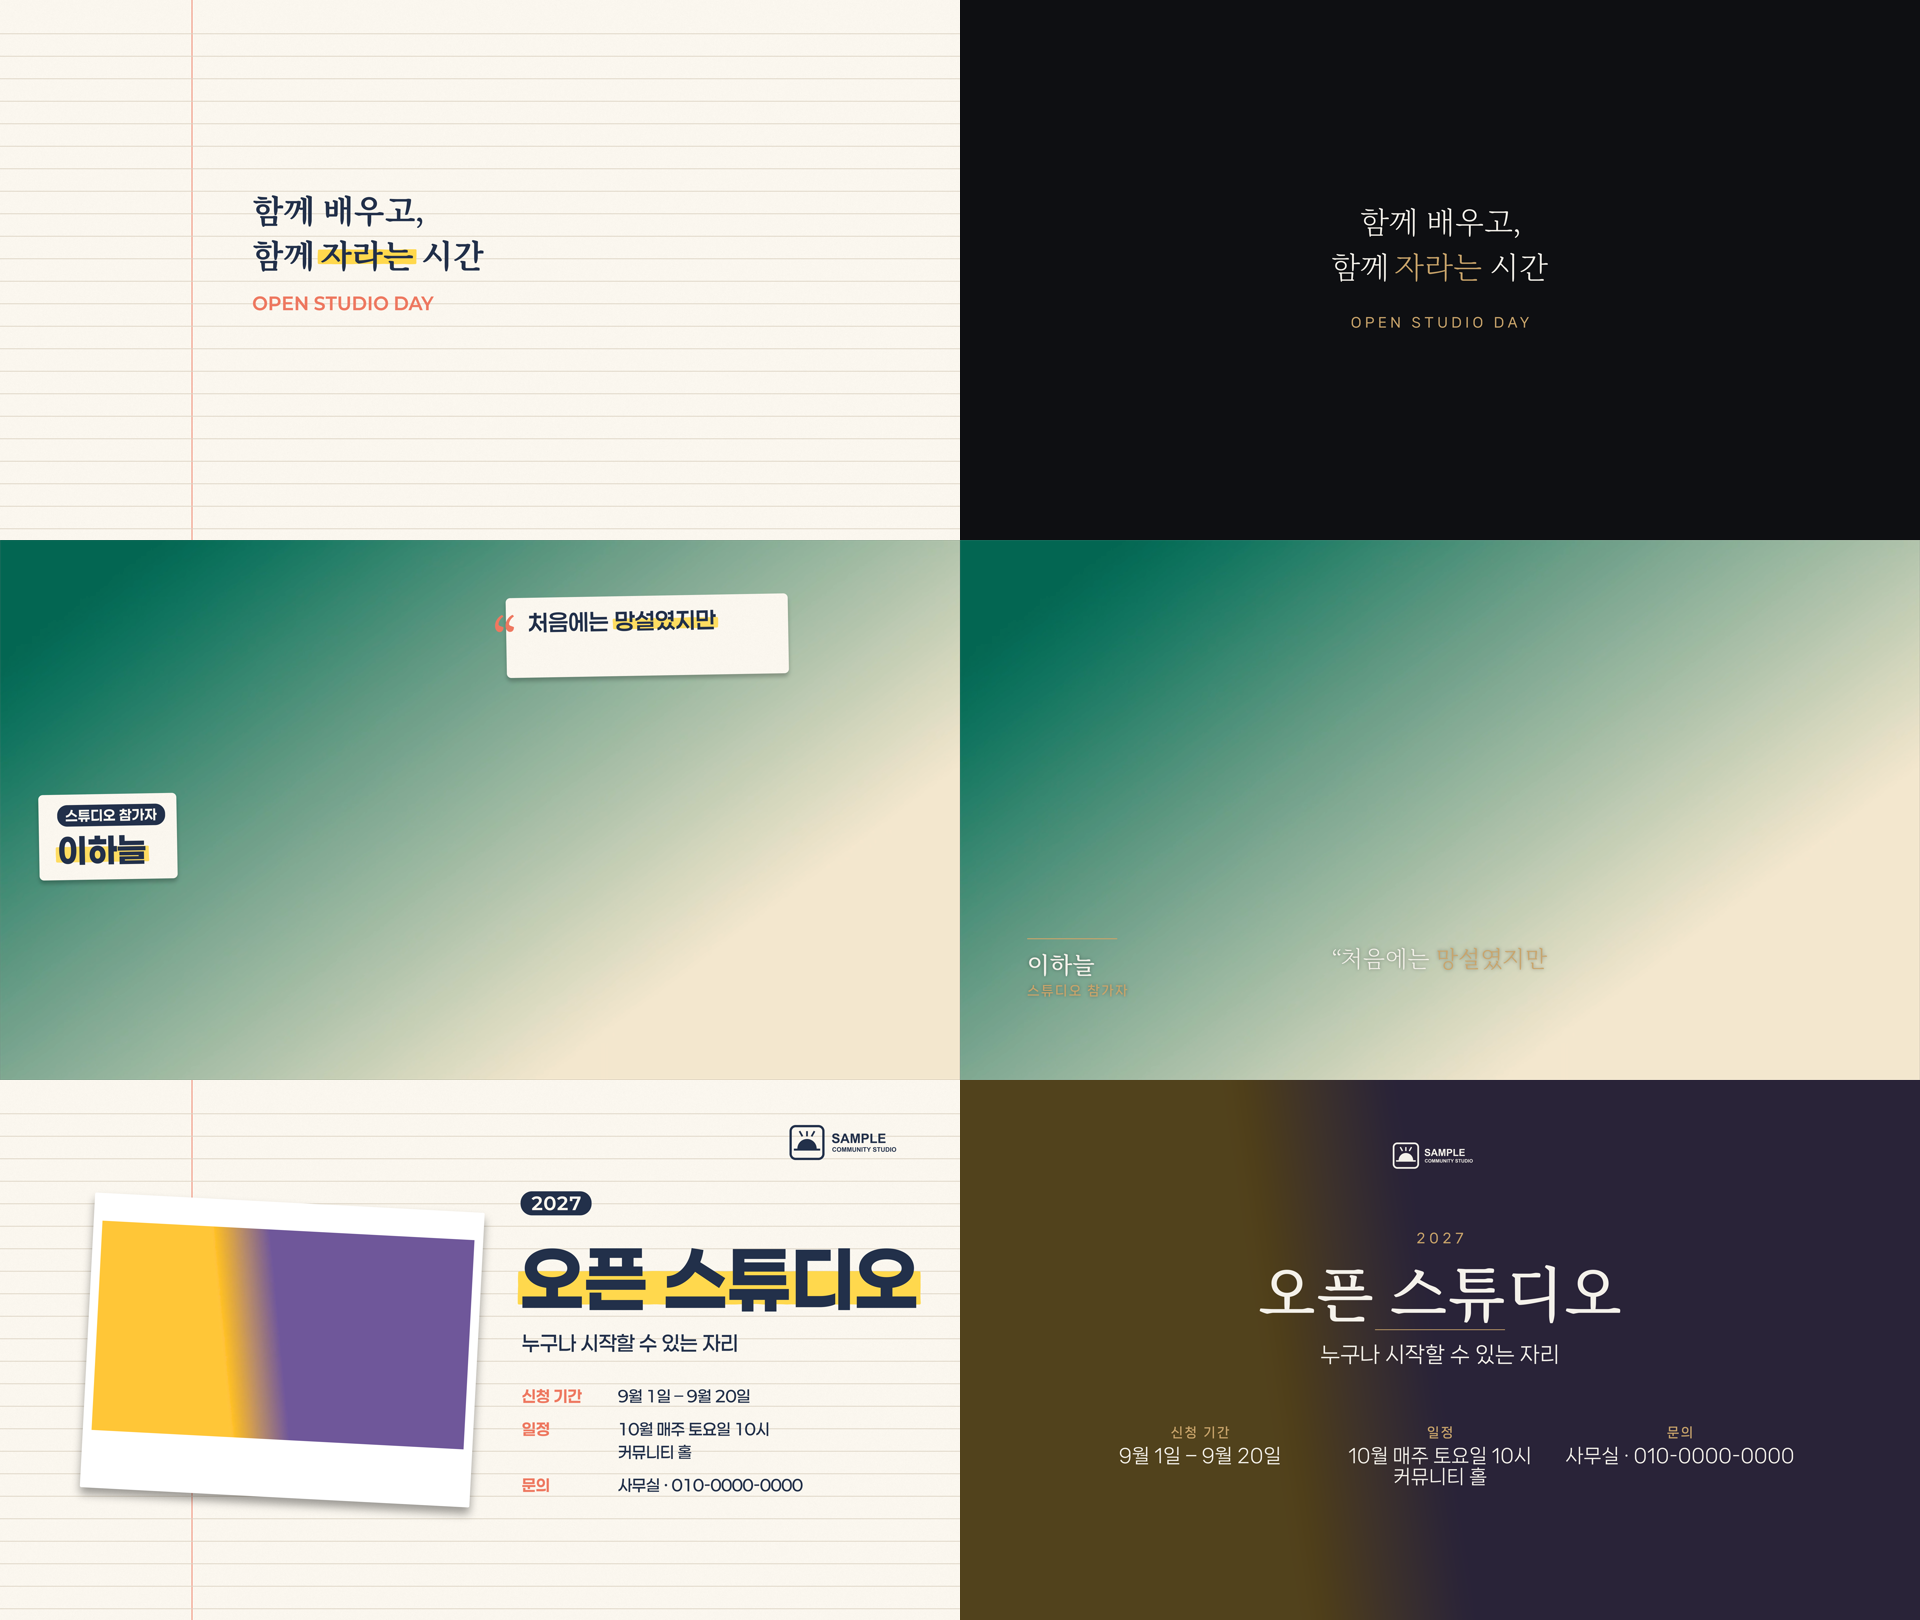
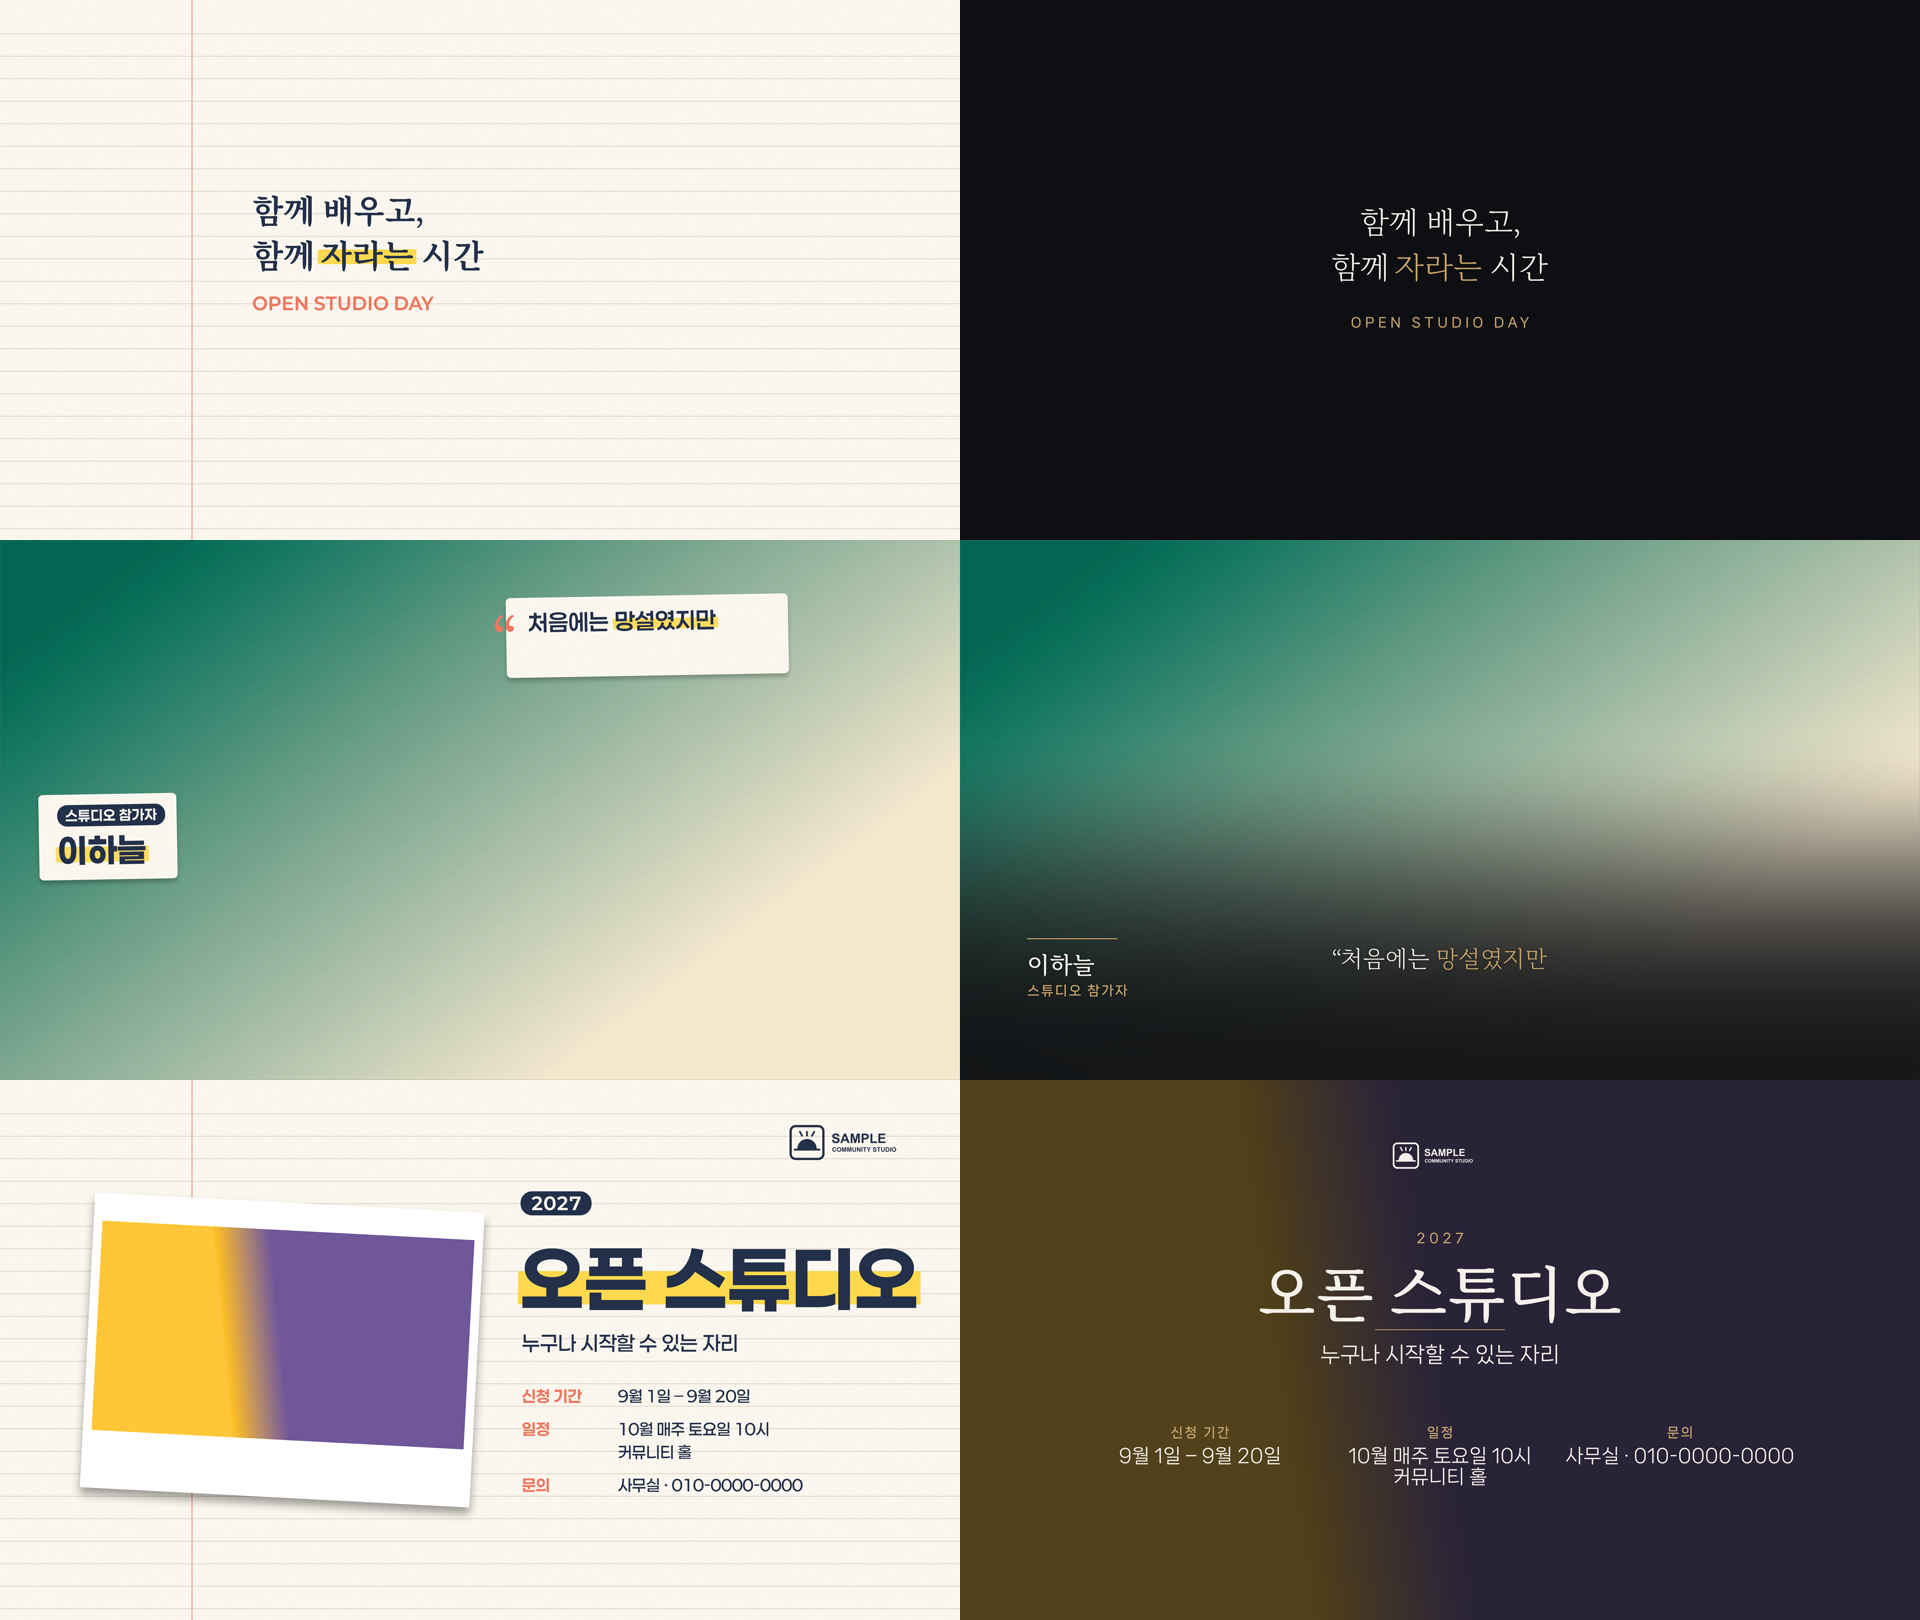
fix(cinematic-minimal): soft scrim keeps captions readable (#12)
## Summary
In `cinematic-minimal`, near-white `ink` and gold `accent` type nearly
disappeared on light footage: gold highlights on orange, the name tag
and quote on sage and cream. Captions, quotes and the lower third now
fade a soft dark scrim in behind the type.

- **Three alpha-gradient PNGs** ship beside the design: `scrim-bottom`,
`scrim-top` and `scrim-center`. They're 1920×1080 in the design's
`shade` colour and scaled to cover the frame. The caption's `place`
picks which one is used.
- **The lower-third scrim fades in on its own** (0.5 s), because that
group only fades out and the scrim would otherwise pop on.
- **Scrims sit beneath every graphic layer** (new `under_graphics`
option, backed by `Context.graphics_from`). Without it, the quote's
scrim covered the lower third that shares its shot and dimmed the name.
- **`_scrim` moves from `editorial.py` to `layout.py`** as `scrim()`.
Editorial behaviour is unchanged; ordering is opt-in, since editorial
titles keep their own photo under their scrim.
- **README:** the design comparison image is regenerated from the new
render. **Docs:** a note in `docs/components.md`.

## Verified in After Effects 2026
Built the demo with `--design cinematic-minimal` in a scratch project:
65 layers, no expression errors, no missing fonts. Compared stills at
10.5 s, 16.5 s and 25 s with the previous render: every caption,
highlight, name and role line is now legible. The title and end card are
unchanged.
[…]

Changed region(s): [[0.5, 0.463, 1.0, 0.679]]

diff --git a/engine/aestudio/components/editorial.py b/engine/aestudio/components/editorial.py
@@ -10,7 +10,7 @@ a design using these treatments wants a pale `ink`, not a paper-dark one.
 """
 from ..util import r3
 from . import register
-from .layout import LayoutError, fade_ref, parse_line, schedule_times, span, text_block
+from .layout import LayoutError, fade_ref, parse_line, schedule_times, scrim, span, text_block
 
 # alpha-gradient assets that ship beside the design.json
 SCRIM_TITLE = "scrim-title.png"
@@ -19,25 +19,6 @@ SCRIM_CAPTION = "scrim-caption.png"
 # How long a layout's bed and panels take to rise. They share one curve so the
 # bed can never be more opaque than the panels sitting on it.
 RAMP_IN = 0.35
-
-
-def _scrim(ctx, *, id, parent, asset, strength, opacity=None, **sp):
-    """A bottom-up darkening gradient. Keeps the photo readable under the type.
-
-    `sp` is a span() dict, so it carries "in"/"out" keys straight through to the op.
-
-    This is a PNG carrying a real alpha channel, not an ADBE Ramp effect: Gradient
-    Ramp paints RGB across an opaque solid and ignores the alpha in its colours, so
-    it veils the whole frame instead of fading in toward the bottom. Strength rides
-    on the layer's own opacity - there is no "ADBE Opacity" effect to apply.
-    """
-    ops, W, H = ctx.ops, ctx.width, ctx.height
-    op_expr = f"({opacity})*{strength}/100" if opacity else str(r3(strength))
-    # cover, never fit-to-width: the gradient must reach the top and bottom of the
-    # frame in any aspect, and it is uniform horizontally so overflow costs nothing
-    ops.add("image", id=id, parent=parent, file=str(ctx.design.path.parent / asset),
-            cover=True, position=[r3(W / 2), r3(H / 2)],
-            expr={"opacity": op_expr}, **sp)
 
 
 def _photo_grade(ctx, photo):
@@ -83,7 +64,7 @@ def title_editorial(ctx, g, opts):
                 src_in=photo.get("src_in", 0), zoom=photo.get("zoom", 1.04),
                 position=[r3(W / 2), r3(H / 2)],
                 lumetri=_photo_grade(ctx, photo), expr={"opacity": fade})
-    _scrim(ctx, id=f"{tid}_SCRIM", parent=tid, asset=SCRIM_TITLE, strength=92,
+    scrim(ctx, id=f"{tid}_SCRIM", parent=tid, asset=SCRIM_TITLE, strength=92,
            opacity=fade, **sp)
 
     x = r3(px(150))
@@ -141,7 +122,7 @@ def caption_editorial(ctx, g, opts):
             fade=f"100*so((time-{t_in})/0.5)*(1-so((time-{r3(t_out - 0.5)})/0.5))")
     fade = fade_ref(cid)
     sp = span(t_in, r3(t_out + 0.1))
-    _scrim(ctx, id=f"{cid}_SCRIM", parent=cid, asset=SCRIM_CAPTION, strength=96,
+    scrim(ctx, id=f"{cid}_SCRIM", parent=cid, asset=SCRIM_CAPTION, strength=96,
            opacity=fade, **sp)
 
     x = r3(px(150))
@@ -423,7 +404,7 @@ def opening_editorial(ctx, g, opts):
     ops.add("rect", id=f"{oid}_VEIL", parent=oid, color=d.color("shade"),
             size=[r3(W + px(20)), r3(H + px(20))], center=[r3(W / 2), r3(H / 2)],
             expr={"opacity": f"(68-44*eio((time-{r3(t_in + 0.5)})/1.9))*{fade}/100"}, **sp)
-    _scrim(ctx, id=f"{oid}_SCRIM", parent=oid, asset=SCRIM_TITLE, strength=64, opacity=fade, **sp)
+    scrim(ctx, id=f"{oid}_SCRIM", parent=oid, asset=SCRIM_TITLE, strength=64, opacity=fade, **sp)
 
     # ---- route strip: ICN ---o--- WLG -------------------------------------
     y_r = Y(0.104)
@@ -550,7 +531,7 @@ def opening_aperture(ctx, g, opts):
     ops.add("rect", id=f"{oid}_VEIL", parent=oid, color=d.color("shade"),
             size=[r3(W + px(20)), r3(H + px(20))], center=[r3(W / 2), r3(H / 2)],
             expr={"opacity": f"(52-30*eio((time-{r3(t_in + 0.8)})/1.6))*{fade}/100"}, **sp)
-    _scrim(ctx, id=f"{oid}_SCRIM", parent=oid, asset=SCRIM_TITLE, strength=70, opacity=fade, **sp)
+    scrim(ctx, id=f"{oid}_SCRIM", parent=oid, asset=SCRIM_TITLE, strength=70, opacity=fade, **sp)
 
     # the aperture: half-height grows from a slit to the whole frame
     o0, od = r3(t_in + 0.12), 1.15
@@ -620,7 +601,7 @@ def opening_impact(ctx, g, opts):
     ops.add("rect", id=f"{oid}_VEIL", parent=oid, color=d.color("shade"),
             size=[r3(W + px(20)), r3(H + px(20))], center=[r3(W / 2), r3(H / 2)],
             expr={"opacity": f"(60-36*eio((time-{r3(t_in + 0.4)})/1.5))*{fade}/100"}, **sp)
-    _scrim(ctx, id=f"{oid}_SCRIM", parent=oid, asset=SCRIM_TITLE, strength=76, opacity=fade, **sp)
+    scrim(ctx, id=f"{oid}_SCRIM", parent=oid, asset=SCRIM_TITLE, strength=76, opacity=fade, **sp)
 
     mult = float(g.get("size", 1.16))
     size = ctx.size("headline", mult)

diff --git a/engine/tests/test_cinematic.py b/engine/tests/test_cinematic.py
@@ -1,3 +1,4 @@
+import struct
 import unittest
 
 from aestudio.components import REGISTRY
@@ -47,6 +48,42 @@ class CinematicTest(unittest.TestCase):
         self.assertIn("eio((time-5.1)/0.6)", it["LOWER_THIRD_01_RULE"]["rect_expr"]["size"])
         self.assertEqual(it["LOWER_THIRD_01_NAME"]["reveal"]["by"], "chars")
         self.assertEqual(it["LOWER_THIRD_01_ROLE"]["tracking"], 120)
+
+    def test_caption_sits_on_a_scrim_under_its_text(self):
+        ctx, it = run({"type": "caption", "voice": "N1", "lines": LINES}, "line-fade")
+        scrim = it["CAPTION_01_SCRIM"]
+        self.assertTrue(scrim["file"].endswith("scrim-bottom.png"))
+        self.assertIn('layer("CAPTION_01")', scrim["expr"]["opacity"])
+        order = [o.get("id") for o in ctx.ops.items]
+        first_text = next(o["id"] for o in ctx.ops.items if o["op"] == "text")
+        self.assertLess(order.index("CAPTION_01_SCRIM"), order.index(first_text))
+
+    def test_scrim_follows_the_caption_placement(self):
+        for place, asset in (("top-left", "scrim-top.png"), ("center", "scrim-center.png"), ("bottom-right", "scrim-bottom.png")):
+            _, it = run({"type": "quote", "voice": "N1", "lines": LINES, "place": place}, "line-fade")
+            self.assertTrue(it["QUOTE_01_SCRIM"]["file"].endswith(asset), place)
+
+    def test_lower_third_scrim_fades_in_with_the_name(self):
+        _, it = run({"type": "lower-third", "at": 5, "name": "이하늘", "role": "스튜디오 참가자"}, "rule-wipe")
+        scrim = it["LOWER_THIRD_01_SCRIM"]
+        self.assertTrue(scrim["file"].endswith("scrim-bottom.png"))
+        self.assertIn("so((time-5.0)/0.5)", scrim["expr"]["opacity"])
+
+    def test_a_later_scrim_sits_under_earlier_graphics_text(self):
+        ctx = make_ctx("cinematic-minimal", voices={"N1": voice("N1", 10.0, WORDS)})
+        REGISTRY[("lower-third", "rule-wipe")](ctx, {"type": "lower-third", "at": 9, "name": "이하늘", "role": "참가자"}, {})
+        REGISTRY[("quote", "line-fade")](ctx, {"type": "quote", "voice": "N1", "lines": LINES}, {})
+        validate_ops(ctx.ops.items)
+        order = {o["layer"]: o["below"] for o in ctx.ops.items if o["op"] == "order"}
+        self.assertEqual(order["QUOTE_01_SCRIM"], ["LOWER_THIRD_01"])
+        self.assertEqual(order["LOWER_THIRD_01_SCRIM"], ["LOWER_THIRD_01"])
+
+    def test_scrim_assets_ship_as_16_9_pngs_with_alpha(self):
+        folder = load_design("cinematic-minimal").path.parent
+        for name in ("scrim-bottom.png", "scrim-top.png", "scrim-center.png"):
+            head = (folder / name).read_bytes()[:26]
+            width, height, _, colour_type = struct.unpack(">IIBB", head[16:26])
+            self.assertEqual((width * 9, colour_type), (height * 16, 6), name)
 
     def test_title_black_frame(self):
         _, it = run({"type": "title-page", "in": 0, "out": 6, "lines": [["함께 배우고,"]], "ref": "OPEN DAY"}, "black-frame")

diff --git a/engine/aestudio/components/cinematic.py b/engine/aestudio/components/cinematic.py
@@ -1,8 +1,10 @@
-"""Cinematic Minimal treatments: centred lines that fade up, accent-colour emphasis, rule-wipe lower third,
+"""Cinematic Minimal treatments: centred lines that fade up over a soft scrim, accent-colour emphasis, rule-wipe lower third,
 black-frame title and a centred end card over blurred footage."""
 from ..util import r3
 from . import register
-from .layout import fade_ref, parse_line, place_block, schedule_times, segment_times, span, text_block
+from .layout import fade_ref, parse_line, place_block, schedule_times, scrim, segment_times, span, text_block, vertical
+
+SCRIMS = {"top": "scrim-top.png", "center": "scrim-center.png", "bottom": "scrim-bottom.png"}
 
 
 def _shadow(ctx, layer_id):
@@ -24,10 +26,13 @@ def caption_line_fade(ctx, g, opts):
         raw[-1] = raw[-1] + ["”"]
     lines = [parse_line(line, ctx.size(base, 0.3)) for line in raw]
     gap = r3(ctx.size(base) * 1.45)
-    x, y0, align = place_block(g.get("place", "lower-center"), len(lines), gap, ctx.width, ctx.height)
+    place = g.get("place", "lower-center")
+    x, y0, align = place_block(place, len(lines), gap, ctx.width, ctx.height)
     cid = ops.uid("QUOTE" if quote else "CAPTION")
     ops.add("group", id=cid, fade=f"100*so((time-{t_in})/0.5)*(1-so((time-{r3(t_out - 0.5)})/0.5))",
             expr={"position": f"value+[0,{ctx.px(24)}*(1-so((time-{t_in})/0.8))]"})
+    scrim(ctx, id=f"{cid}_SCRIM", parent=cid, asset=SCRIMS[vertical(place)], strength=100,
+          opacity=fade_ref(cid), under_graphics=True, **span(t_in, r3(t_out + 0.1)))
 
     def style(i, seg):
         return {"font": d.font("emphasis" if seg.hl and not quote else base), "size": ctx.size(base),
@@ -51,6 +56,8 @@ def lower_third_rule_wipe(ctx, g, opts):
     sp = span(t_in, t_out + 0.05)
     ops.add("group", id=lid, fade=f"100*(1-so((time-{r3(t_out - 0.6)})/0.6))")
     fade = fade_ref(lid)
+    scrim(ctx, id=f"{lid}_SCRIM", parent=lid, asset=SCRIMS["bottom"], strength=100,
+          opacity=f"{fade}*so((time-{t_in})/0.5)", under_graphics=True, **sp)
     name_size = ctx.size("headline", 0.62)
     rule_w, rule_h, rule_y = px(360), px(4), r3(y - name_size - px(40))
     k = f"var k=eio((time-{r3(t_in + 0.1)})/0.6);"

diff --git a/engine/aestudio/components/layout.py b/engine/aestudio/components/layout.py
@@ -88,15 +88,39 @@ def schedule_times(lines, start, step, line_pause):
     return out
 
 
+def vertical(place) -> str:
+    """"top", "center" or "bottom": which band of the frame a place sits in."""
+    return "center" if place == "center" else ("top" if place.startswith("top") else "bottom")
+
+
 def place_block(place, n_lines, gap, width, height):
     if place not in PLACES:
         raise LayoutError(f"unknown place '{place}' (expected one of {', '.join(PLACES)})")
     extent = (n_lines - 1) * gap
     horiz = "center" if place.endswith("center") else place.split("-")[1]
-    vert = "center" if place == "center" else ("top" if place.startswith("top") else "bottom")
+    vert = vertical(place)
     x = {"left": 0.09, "right": 0.55, "center": 0.5}[horiz] * width
     y_first = {"top": 0.17 * height, "bottom": 0.85 * height - extent, "center": 0.5 * height - extent / 2}[vert]
     return round(x, 2), round(y_first, 2), ("center" if horiz == "center" else "left")
+
+
+LAYER_OPS = ("footage", "group", "rect", "text", "image", "solid", "rules")
+
+
+def scrim(ctx, *, id, parent, asset, strength, opacity=None, under_graphics=False, **sp):
+    """A darkening alpha-gradient PNG shipped beside the design.json, scaled to cover the frame.
+
+    A PNG, not ADBE Ramp: Gradient Ramp ignores alpha and veils the whole frame.
+    `under_graphics` drops it beneath every graphic layer, so it never dims another graphic's type.
+    """
+    op_expr = f"({opacity})*{strength}/100" if opacity else str(r3(strength))
+    ctx.ops.add("image", id=id, parent=parent, file=str(ctx.design.path.parent / asset),
+                cover=True, position=[r3(ctx.width / 2), r3(ctx.height / 2)],
+                expr={"opacity": op_expr}, **sp)
+    if under_graphics:
+        first = next(o["id"] for o in ctx.ops.items[ctx.graphics_from:] if o["op"] in LAYER_OPS)
+        if first != id:
+            ctx.ops.add("order", layer=id, below=[first])
 
 
 def fade_ref(group_id, mult=100):

diff --git a/engine/aestudio/compiler.py b/engine/aestudio/compiler.py
@@ -88,7 +88,8 @@ def compile_plan(plan, design) -> list:
                 width=r3(f.width * s.zoom) if s.fit == "width" else None,
                 levels=levels, expr=expr or None)
 
-    ctx = Context(design, ops, f.width, f.height, f.duration, voices, {"lumetri": base_grade})
+    ctx = Context(design, ops, f.width, f.height, f.duration, voices, {"lumetri": base_grade},
+                  graphics_from=len(ops.items))
     for g in plan.graphics:
         treatment, options = design.treatment(g["type"])
         builder = REGISTRY.get((g["type"], treatment))

diff --git a/engine/aestudio/context.py b/engine/aestudio/context.py
@@ -11,6 +11,7 @@ class Context:
     duration: float
     voices: dict
     grade: dict = field(default_factory=dict)
+    graphics_from: int = 0          # index of the first op a graphic added; shots come before it
 
     @property
     def s(self) -> float:

diff --git a/docs/components.md b/docs/components.md
@@ -65,6 +65,10 @@ single-colour logo to the design's ink colour; use `false` for multi-colour logo
 | title-page | `notebook-page` | `black-frame` |
 | end-card | `notebook-page` | `centered-stack` |
 
+`line-fade` and `rule-wipe` fade a soft dark scrim in behind the type (`scrim-bottom`, `-top` or
+`-center.png` beside the design, chosen by `place`), so pale type stays legible on light footage.
+Scrims sit beneath every graphic layer, so one graphic's scrim never dims another's type.
+
 ### editorial
 
 A third family, `editorial`, sets type directly on full-bleed footage with a vertical gradient
